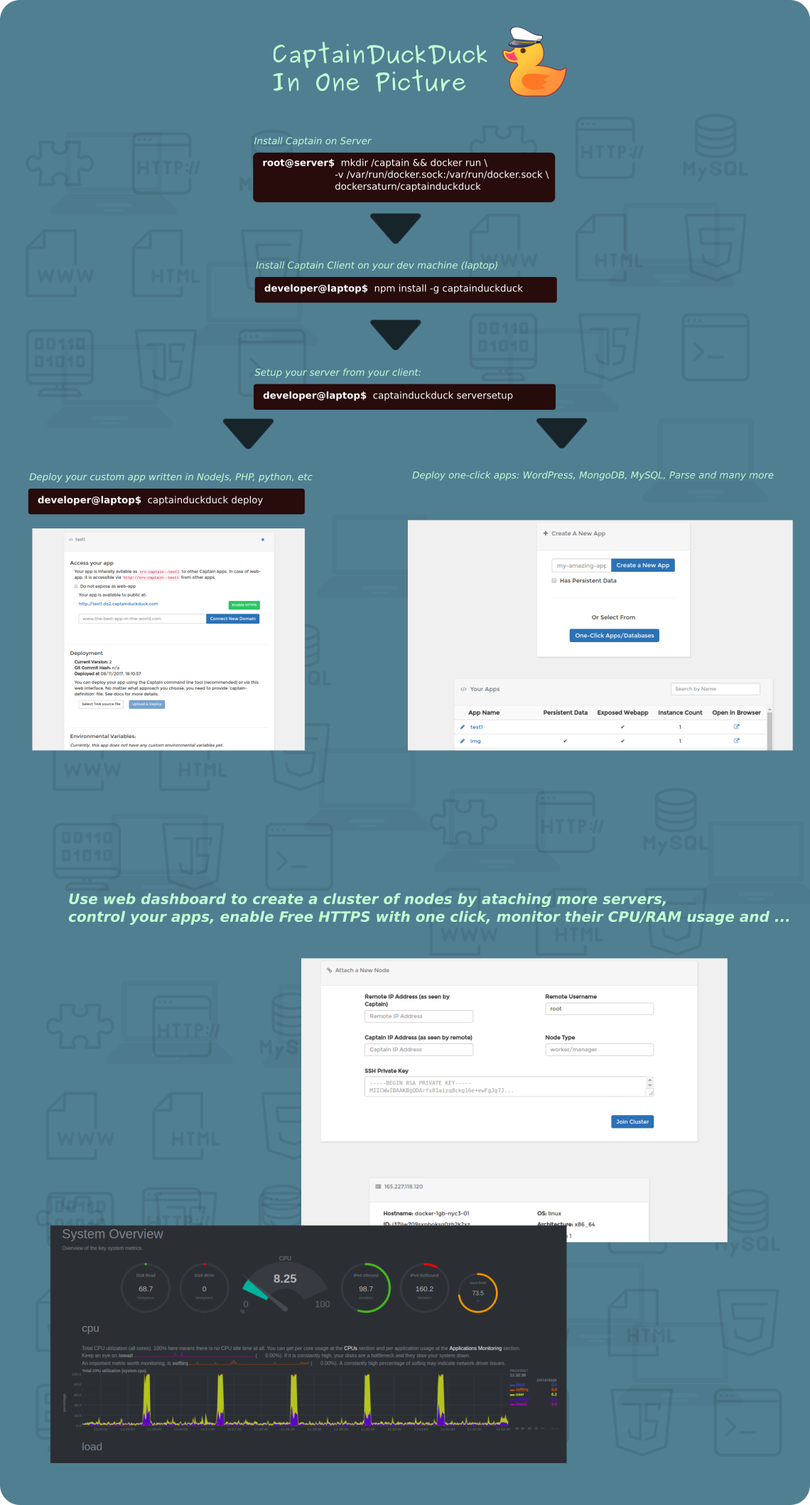
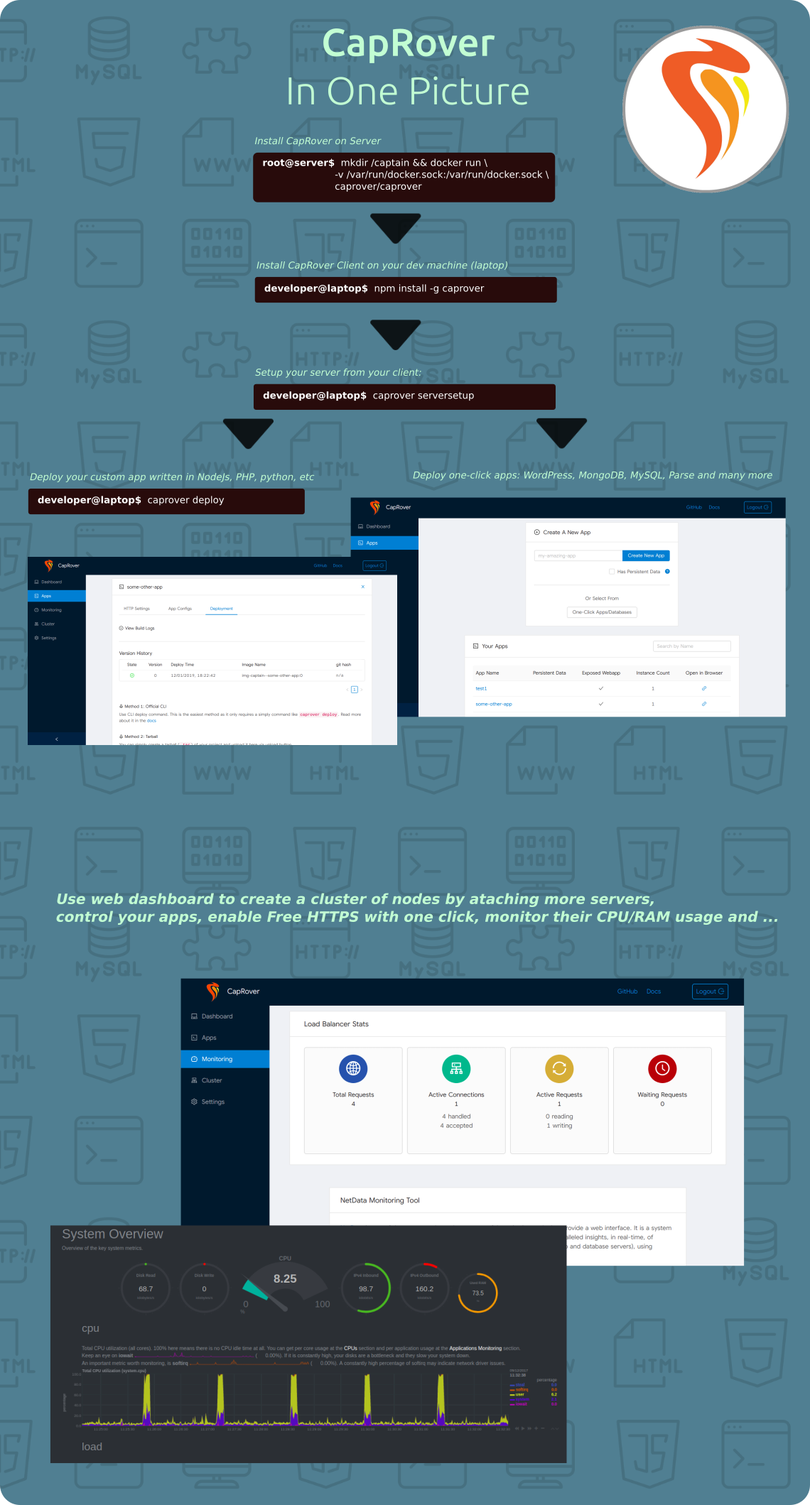
Changed docs to match CapRover

diff --git a/website/pages/en/index.js b/website/pages/en/index.js
@@ -60,6 +60,9 @@ const Logo = props => (
 const ProjectTitle = props => (
     <h2 className="projectTitle">
         {siteConfig.title}
+        <div style={{fontSize:'30%',opacity:0.5}}>
+        <i>Previously Known as CaptainDuckDuck <br/></i>
+        </div>
         <small>{siteConfig.tagline}</small>
     </h2>
 );
@@ -158,7 +161,7 @@ const FeatureCallout = props => (
         style={{textAlign: 'center'}}>
         <h2>What's this?</h2>
         <MarkdownBlock>
-            CapRover is an extremely easy to use app/database deployment & web server manager for your NodeJS,
+            CapRover is an extremely easy to use app/database deployment &amp; web server manager for your NodeJS,
             Python, PHP, Ruby, MySQL, MongoDB, Postgres, WordPress (and etc) applications. It's blazingly fast and very
             robust as
             it uses Docker, nginx, LetsEncrypt and NetData under the hood behind its simple-to-use interface.

diff --git a/docs/captain-definition-file.md b/docs/captain-definition-file.md
@@ -11,20 +11,20 @@ One of the key components of CapRover is the `captain-definition` file that sits
 
 ```
  {
-  "schemaVersion" :1 ,
+  "schemaVersion" :2 ,
   "templateId" :"node/8.7.0"
  }
 ```
 
-`schemaVersion` is always 1. And `templateId` is the piece which defines the what sort of base you need in order to run your app. It is in `LANGUAGE/VERSION` format. LANGUAGE can be one of these: `node`, `php`, `python-django`, `ruby-rack`. See supported versions below for the versions.
+`schemaVersion` is always 2. And `templateId` is the piece which defines the foundation you need in order to run your app. It is in `LANGUAGE/VERSION` format. LANGUAGE can be one of these: `node`, `php`, `python-django`, `ruby-rack`. See supported versions below for the versions.
 
-Note that although the current version of CapRover comes with 4 most popular web app languages: NodeJS, PHP and Python/Django, Ruby/Rack. It gives you the advanced option of defining your own Dockerfile. With a customized Dockerfile, you can deploy any laguage, Go, Java, .NET, you name it! Dockerfiles are quite easy to write. For example, the two captain-definition files below generate <b>the exact same result</b>.
+Note that although the `templateId` can be one of the 4 most popular web app languages: NodeJS, PHP and Python/Django, Ruby/Rack, you are NOT LIMITED to these predefined languages! With CapRover, you have the ability to define your own Dockerfile. With a customized Dockerfile, you can deploy any laguage, Go, Java, .NET, you name it! Dockerfiles are quite easy to write. For example, the two captain-definition files below generate <b>the exact same result</b>.
 
 ### Simple version
 
 ```
  {
-  "schemaVersion" :1 ,
+  "schemaVersion" :2 ,
   "templateId" :"node/8.7.0"
  }
 ```
@@ -34,14 +34,14 @@ Note that although the current version of CapRover comes with 4 most popular web
 
 ```
  {
-  "schemaVersion" :1 ,
+  "schemaVersion" :2 ,
   "dockerfileLines" :[
                         "FROM node:8.7.0-alpine",
                         "RUN mkdir -p /usr/src/app",
                         "WORKDIR /usr/src/app",
-                        "COPY ./src/package.json /usr/src/app/",
+                        "COPY ./package.json /usr/src/app/",
                         "RUN npm install && npm cache clean --force",
-                        "COPY ./src /usr/src/app",
+                        "COPY ./ /usr/src/app",
                         "ENV NODE_ENV production",
                         "ENV PORT 80",
                         "EXPOSE 80",
@@ -51,37 +51,39 @@ Note that although the current version of CapRover comes with 4 most popular web
 ```
 ## Convert Dockerfile to captain-definition:
 
-You can use [this tool](https://githubsaturn.github.io/dockerfile-to-captain/) to convert your `Dockerfile` to `captain-definition` file easily. This [NodeJS script](https://github.com/githubsaturn/captainduckduck/issues/214)  is also for the same purpose, except, it automatically adds `.src/` to the `COPY` lines.
-
-Even if you don't know anything about Docker, you can get an idea what this does. Some examples of advanced methods: [PHP Composer](https://github.com/githubsaturn/captainduckduck/issues/94) and [Meteor](https://github.com/githubsaturn/meteor-captainduckduck/blob/master/captain-definition)
-
-
-**IMPORANT NOTE:** 
-<br/>
-Captain generates a dockerfile and puts it besides a directory named `src` where your source code sits. So if in your normal dockerfile, you have `COPY ./somefile /usr/app`, you will have to change it to `COPY ./src/somefile /usr/app` otherwise deploy would fail.
-
-Using this approach you can deploy Ruby, Java, Scala, literally everything! If you need more details on dockerfile, please see [Dockerfile Help](https://docs.docker.com/engine/reference/builder) and [Best Practices](https://docs.docker.com/engine/userguide/eng-image/dockerfile_best-practices).
-
-
-## Supported versions for simple version:
-NOTE: Versions get pulled from official repositories at runtime, therefore you do not need to update your Captain in order to use a new version of NodeJS. For example, see here: https://hub.docker.com/_/node/
+If you already have a Dockerfile a Dockerfile for your repo, you can reference it in captain-definition file:
 
 ```
+ {
+  "schemaVersion" :2 ,
+  "dockerfilePath" :"./myDockerFile"
+ }
+```
+
+Dockerfiles are so simple and easy to read. Even if you don't know anything about Docker, you can get an idea what this does. Some examples of advanced methods: [PHP Composer](https://github.com/githubsaturn/captainduckduck/issues/94) and [Meteor](https://github.com/githubsaturn/meteor-captainduckduck/blob/master/captain-definition)
+
+Using this approach (pure Dockerfile) you can deploy Ruby, Java, Scala, literally anything! If you need more details on dockerfile, please see [Dockerfile Help](https://docs.docker.com/engine/reference/builder) and [Best Practices](https://docs.docker.com/engine/userguide/eng-image/dockerfile_best-practices).
+
+
+## Sample versions for templateId:
+NOTE: Versions get pulled from official repositories at runtime, therefore you do not need to update your Captain in order to use a new version of NodeJS. For example, see here: https://hub.docker.com/_/node/
+
+```bash
 node/
 carbon, 8, 8.9, 8.9.4, boron, 6, 6.12, 6.12.3, 9, 9.3, 9.3.0, 8.9.3, 9.2, 9.2.1, argon, 4, 4.8, 4.8.7, 6.12.2, 8.9.2, 6.12.1, 4.8.6, 6.12.0, 8.9.1, 9.2.0, 9.1, 9.1.0, 8.9.0, 9.0, 9.0.0, 4.8.5, 6.11, 6.11.5, 8.8, 8.8.1, 8.8.0, 8.7, 8.7.0, 6.11.4, 8.6, 8.6.0, 8.5, 8.5.0, 4.8.4, 6.11.3, 6.11.2, 7, 7.10, 7.10.1, 8.4, 8.4.0, 8.3, 8.3.0, 8.2, 8.2.1, 6.11.1, 8.2.0, 8.1, 8.1.4, 4.8.3, 6.11.0, 8.1.3, 8.1.2, 8.1.1, 8.1.0, 8.0, 8.0.0, 6.10, 6.10.3, 7.10.0, 4.8.2, 6.10.2, 7.9, 7.9.0, 7.8, 7.8.0, 4.8.1, 6.10.1, 7.7, 7.7.4, 4.8.0, 6.10.0, 7.7.3, 7.7.2, 7.7.1, 7.7.0, 7.6, 7.6.0, 4.7, 4.7.3, 6.9, 6.9.5, 7.5, 7.5.0, 4.7.2, 6.9.4, 7.4, 7.4.0, 4.7.1, 6.9.3, 7.3, 7.3.0, 6.9.2, 4.7.0, 7.2.1, 7.2, 4.6, 4.6.2, 7.2.0, 6.9.1, 7.1, 7.1.0
 ```
 
-```
+```bash
 php/
 7, 7.2, 7.2.1, 7.0, 7.0.26, 7.1, 7.1.12, 5, 5.6, 5.6.32, 7.2.0, rc, 7.2-rc, 7.2.0RC6, 7.0.25, 7.1.11, 7.2.0RC5, 7.2.0RC4, 5.6.31, 7.0.24, 7.1.10, 7.2.0RC3, 7.1.9, 7.0.23, 7.2.0RC2, 7.2.0RC1, 7.0.22, 7.1.8, 7.2.0beta3, 7.2.0beta2, 7.1.7, 7.2.0beta1, 7.0.21, 7.2.0alpha3, 5.6.30, 7.0.20, 7.1.6, 7.1.5, 7.0.19, 7.0.18, 7.1.4, 7.0.17, 7.1.3, 7.0.16, 7.1.2, 7.1.1, 7.0.15, 5.6.29, 7.0.14, 7.1.0, 5.6.28, 7.0.13, 7.1-rc, 7.1.0RC6, 7.1.0RC5, 7.0.12, 5.6.27, 7.1.0RC4, 7.1.0RC3, 5.6.26, 7.0.11, 7.1.0RC2, 5.6.25, 7.0.10, 7.1.0RC1, 5.6.24, 7.0.9, 5.5.38, 5.5, 5.5.37, 5.6.23, 7.0.8, 5.5.36, 5.6.22, 7.0.7, 7.0.6, 5.6.21, 5.5.35, 7.0.5, 5.6.20, 5.5.34, 7.0.4, 5.6.19, 5.5.33, 7.0.3, 5.6.18, 5.5.32, 7.0.2, 5.6.17, 5.5.31, 7.0.1, 5.6.16, 5.5.30, 7.0.0, 5.4, 5.4.45, 7.0.0RC8, 5.6.15, 7.0.0RC7, 7.0.0RC6, 7.0.0RC5, 5.6.14, 7.0.0RC4, 7.0.0RC3, 5.6.13, 5.5.29, 7.0.0RC2, 7.0.0RC1, 7.0.0beta3, 5.6.12, 5.5.28, 5.4.44, 7.0.0beta2, 5.6.11, 5.5.27, 5.4.43, 7.0.0beta1, 5.5.21, 5.5.19, 5.5.16, 5.4.40, 5.4.41, 5.4.39, 5.5.17, 5.6.3, 5.6.0, 5.6.8, 5.6.4, 5.4.42, 5.5.20, 5.4.38, 5.5.22, 5.6.5, 5.6.2, 5.4.35, 5.4.36, 5.4.33, 5.3.29, 5.3, 5.5.26, 5.5.18, 5.4.32, 5.4.37, 5.6.1, 5.6.6, 5.6.9, 5.6.10, 5.4.34, 5.6.7, 5.5.24, 5.5.23, 5.5.25
 ```
 
-```
+```bash
 python-django/
 2, 2.7, 2.7.14, 3, 3.6, 3.6.4, 3.6.3, rc, 3.7-rc, 3.7.0a3, 3.7.0a2, 3.7.0a1, 2.7.13, 3.6.2, 3.6-rc, 3.6.2rc2, 3.6.1, 3.6.2rc1
 ```
 
-```
+```bash
 ruby-rack/
 2.4, 2.4.3, 2, 2.5, 2.5.0, rc, 2.5-rc, 2.5.0-rc1, 2.4.2, 2.5.0-preview1
 ```

diff --git a/docs/app-configuration.md b/docs/app-configuration.md
@@ -15,9 +15,17 @@ By default, any webapp that you deploy gets a Captain domain assigned to it in t
 
 One of the most basic configuration that you can set for your app is environmental variables. These variables are usually used to pass in data that does not live in the code. Examples, include API key for a 3rd party service, database connection URI and etc. 
 
+## Port Mapping
+
+CapRover allows you to map ports from a container to the host. You should use this feature if you want a specific port of your apps/containers to be publicly accessible. The most common use case is when you want to **connect to a database container from your local machine**.
+
+Note that even if you don't set any port mapping, all ports are accessible from other containers on the same Captain cluster. Therefore, you should only use this option if you want the port to be publicly accessible. Make sure to have the port open, see [firewall settings](firewall.md).
+
+For example, if you want your NodeJS app to access your MongoDB database, and you do not need to access your MongoDB from your laptop, you don't need Port Mapping. Instead, you can use the fully qualified name for the MongoDB instance which is `srv-captain--mongodb-app-name` (replace `mongodb-app-name` with the app name you used). 
+
 ## Persistent or Not
 
-When you want to create an app you have the option of creating the app with "Persistent Data" or not. 
+When you want to create an app you have the option of creating the app with "Persistent Data" or not. By default, you should always prefer no persistence. However, they are cases where you need to create an app with persistence, see below.
 
 ### Persistent Apps: 
 These are the apps that have some data that need to survive restart, crash, container update and etc. Because these apps store data on disk, once they get created they get locked down on a specific server (if you have multiple servers). You can still change the constraint so that they will be moved to another machine, but if they will lose anything that might have been stored on the current host. Examples that use persistent apps include:
@@ -27,7 +35,7 @@ These are the apps that have some data that need to survive restart, crash, cont
 
 The main limitation of apps with Persistent Data is that they cannot be run as multiple instances. That's because they would access the same storage area and the data can be corrupted if multiple apps try to write on the same path.
 
-Note that NOT ALL DIRECTORIES will be treated as persistent directories. After you created the app as an app with persistent data, you'll have to define directories that you want to be persistent in the app details page on web dashboard. You can let CapRover manage the stored directories for you, in that case, they will be placed in `/var/lib/docker/volumes/YOUR_VOLUME_NAME/_data`. Alternatively, you can set specific path on your host machine to be mapped to a directory in your container. For example, you can map `/var/usr` on your server to `/my-host-usr-something` in your container. This way you can save a file in your container at `/my-host-usr-something/myfile.txt` and the file will be available on your server at `/var/usr/myfile.txt`. If you choose to use this option (specifying a specific host path), you'll have to make sure that the path already exists in your host before assigning it.
+Note that even for Persistent Apps, NOT ALL DIRECTORIES will be treated as persistent directories. After you created the app as an app with persistent data, you'll have to define directories that you want to be persistent in the app details page on web dashboard. You can let CapRover manage the stored directories for you, in that case, they will be placed in `/var/lib/docker/volumes/YOUR_VOLUME_NAME/_data`. Alternatively, you can set specific path on your host machine to be mapped to a directory in your container. For example, you can map `/var/usr` on your server to `/my-host-usr-something` in your container. This way you can save a file in your container at `/my-host-usr-something/myfile.txt` and the file will be available on your server at `/var/usr/myfile.txt`. If you choose to use this option (specifying a specific host path), you'll have to make sure that the path already exists in your host before assigning it.
 
 ### Removing Persistent Apps: 
 Persistent directories need to be manually removed after you remove an app from Captain dashboard. This is to avoid accidential delete of important data. To delete persisten directories, depending on the type of persistent directories, steps are different:
@@ -45,9 +53,3 @@ Also, multiple instances of non-persistent apps can be running at the same time 
 - A image processor which takes a photo and runs some logic to figure out what is in the picture. This is a good example of an app that can benefit from getting spawned as multiple instances as it's CPU heavy.
 - A TODO web app. Note that this app will definitely uses some sort of database which is persistent. But the webapp itself does not store anything directly on disk.
 - An image upload app that uses Amazon S3 as the storage engine rather than storing images locally on disk
-
-## Port Mapping
-
-CapRover allows you to map ports from a container to the host. You should use this feature if you want a specific port of your apps/containers to be publicly accessible. The most common use case is when you want to connect to a database container from your local machine. Note that even if you don't set any port mapping, all ports are accessible from other containers on the same Captain cluster. Therefore, you should only use this option if you want the port to be publicly accessible. Make sure to have the port open, see [firewall settings](firewall.md).
-
-Note that you only need port mapping if your database is being accessed from an external machine. For example, if you want your NodeJS app to access your MongoDB database, and you do not need to access your MongoDB from your laptop, you don't need Port Mapping. Instead, you can use the fully qualified name for the MongoDB instance which is `srv-captain--mongodb-app-name` (replace `mongodb-app-name` with the app name you used). 

diff --git a/docs/get-started.md b/docs/get-started.md
@@ -20,9 +20,9 @@ _**CPU Architecture**:_ Although CapRover source code is compatible with any CPU
 
 _**Recommended Stack**:_ CapRover is tested on Ubuntu 16.04 and Docker 17.06. If you're using CapRover on a different OS, you might want to look at [Docker Docs](https://docs.docker.com/engine/userguide/storagedriver/selectadriver/#supported-storage-drivers-per-linux-distribution).
 
-_**Minimum RAM**:_ Note that the build process sometimes consumes too much RAM, and 512MB RAM might not be enough (see [this issue](https://github.com/githubsaturn/captainduckduck/issues/28)). Most providers offer a minimum of 1GB RAM on $5 instance including DigitalOcean, Vultr, Scaleway, Linode, SSD Nodes and etc.
+_**Minimum RAM**:_ Note that the build process sometimes consumes too much RAM, and 512MB RAM might not be enough (see [this issue](https://github.com/caprover/caprover/issues/28)). Most providers offer a minimum of 1GB RAM on $5 instance including DigitalOcean, Vultr, Scaleway, Linode, SSD Nodes and etc.
 
-You can install Captain on your laptop which is behind NAT (your router) for testing purposes, but it requires some special setup, like port forwarding. 
+You can install Captain on your laptop which is behind NAT (your router). But if you want to enable HTTPS and/or access the apps from outside of your private network, it requires some special setup, like port forwarding. 
 
 #### C) Install Docker on Server (at least, version 17.06.x)
 
@@ -49,7 +49,7 @@ Just run the following line, sit back and enjoy!
  mkdir /captain && docker run -p 80:80 -p 443:443 -p 3000:3000 -v /var/run/docker.sock:/var/run/docker.sock caprover/caprover
 ```
 
-You will see a bunch of outputs on your screen. Once the Captain is initialized, you can visit `http://[IP_OF_YOUR_SERVER]:3000` in your browser and login to Captain using the default password `captain42`. You can change your password later. Do not make any changes in the dashboard. We'll use the command line tool to setup the server.
+You will see a bunch of outputs on your screen. Once the Captain is initialized, you can visit `http://[IP_OF_YOUR_SERVER]:3000` in your browser and login to Captain using the default password `captain42`. You can change your password later. **Do not make any changes in the dashboard**. We'll use the command line tool to setup the server.
 
 ## Step 2: Connect Root Domain
 
@@ -80,7 +80,7 @@ Follow the steps and login to your captain instance. When prompted to enter the 
 
 ## Step 4: Deploy the Test App
 
-Go to the Captain in your browser, from the left menu select Apps and create a new app. Name it `my-first-app`. Then, download any of the test apps <a href="https://github.com/githubsaturn/captainduckduck/tree/master/captain-sample-apps">here</a>, unzip the content. and while inside the directory of the test app, run:
+Go to the Captain in your browser, from the left menu select Apps and create a new app. Name it `my-first-app`. Then, download any of the test apps <a href="https://github.com/caprover/caprover/tree/master/captain-sample-apps">here</a>, unzip the content. and while inside the directory of the test app, run:
 
 ```bash
 /home/Desktop/captain-examples/captain-node$  caprover deploy
@@ -90,6 +90,6 @@ CONGRATS! Your app is live!!
 
 You can connect multiple custom domains (like `www.my-app.com`) to a single app and enable HTTPS and do much more in the app's settings page.
 
-Note that when you run `caprover deploy`, the current git commit will be sent over to your server. **IMPORTANT:** uncommited files and files in `gitignore` WILL NOT get pushed to the server.
+Note that when you run `caprover deploy`, the current git commit will be sent over to your server. **IMPORTANT:** uncommited files and files in `gitignore` WILL NOT be sent to the server.
 
 You can visit Captain in the browser and set custom parameters for your app such as environment variables, and do much more! For more details regarding deployment, please see CLI docs. For details on `captain-definition` file, see [Captain Definition File](captain-definition-file.md).

diff --git a/docs/run-locally.md b/docs/run-locally.md
@@ -8,19 +8,18 @@ sidebar_label: Run Locally
 Note that this is an advanced process. Some of the concepts used in this section are not easy for the beginners. In order to run CapRover on your local machine (just for testing and development) you need:
 
 - Docker installed on your machine.
-- A local DNS server on your machine. You need to point `*.captain.x` to `127.0.0.1` or `192.168.1.2` (your local ip). **NOTE** that `etc/hosts` won't be enough as Captain needs a wildcard entry and `etc/hosts` does not allow wildcards, i.e. `*.something`.
-  - On ubuntu 16, `dnsmasq` (a local DNS server) is built-in. So, it's as simple of editing this file: `/etc/NetworkManager/dnsmasq.d/dnsmasq-localhost.conf` (create if does not exist) And add this line to it: `address=/captain.x/192.168.1.2` where `192.168.1.2` is your local IP address. To make sure you have `dnsmasq`, you can run `which dnsmasq` on your terminal, if it's available, path of it will be printed on the terminal, otherwise, there won't be anything printed on your terminal.
+- A local DNS server on your machine. You need to point `*.captain.local` to `127.0.0.1` or `192.168.1.2` (your local ip). **NOTE** that `etc/hosts` won't be enough as Captain needs a wildcard entry and `etc/hosts` does not allow wildcards, i.e. `*.something`. On ubuntu 16, `dnsmasq` (a local DNS server) is built-in. So, it's as simple of editing this file: `/etc/NetworkManager/dnsmasq.d/dnsmasq-localhost.conf` (create if does not exist) And add this line to it: `address=/captain.local/192.168.1.2` where `192.168.1.2` is your local IP address. To make sure you have `dnsmasq`, you can run `which dnsmasq` on your terminal, if it's available, path of it will be printed on the terminal, otherwise, there won't be anything printed on your terminal.
   
 Note: For Ubuntu 18, read https://askubuntu.com/questions/1029882/how-can-i-set-up-local-wildcard-127-0-0-1-domain-resolution-on-18-04
 
 To verify you have both prerequisites mentioned above:
 - Run `docker version` and make sure your version is at least the version mentioned in the [docs](get-started.md#c-install-docker-on-server-at-least-version-1706x) 
-- Run `nslookup askjdfklasjflk.captain.x` and make sure it resolves to `127.0.0.1` or your local ip (something like `192.168.1.2`):
+- Run `nslookup randomstring123.captain.local` and make sure it resolves to `127.0.0.1` or your local ip (something like `192.168.1.2`):
 ```
 Server:		127.0.1.1
 Address:	127.0.1.1#53
 
-Name:	askjdfklasjflk.captain.x
+Name:	randomstring123.captain.local
 Address: 192.168.1.2
 ```
 
@@ -28,9 +27,9 @@ Address: 192.168.1.2
 Once you confirmed that you have the prereqs ready, you can go ahead and install Captain on your machine, similar to what you do on server. Make sure you run as a user with sufficient permission, i.e. `sudo` on linux based systems. Just follow the steps outlined here: [Captain Installation](get-started#step-1-captain-installation)
 
 **EXCEPT** 
-Do not run `caprover serversetup`. Instead, go to http://localhost:3000 and manually set root domain to `captain.x`. DO NOT enable/force HTTPS. Obviously, you cannot enable HTTPS on your local domain (captain.x).
+Do not run `caprover serversetup`. Instead, go to http://captain.captain.local:3000 and manually set root domain to `captain.local`. DO NOT enable/force HTTPS. Obviously, you cannot enable HTTPS on your local domain (captain.local).
 
-Once you set your root domain as `captain.x`, use `caprover login` and enter `captain.captain.x` as your captain URL and captain42 as your password. 
+Once you set your root domain as `captain.local`, use `caprover login` and enter `captain.captain.local` as your captain URL and captain42 as your password. 
 
 
 **NON-LINUX USERS**

diff --git a/docs/troubleshooting.md b/docs/troubleshooting.md
@@ -11,7 +11,7 @@ This section covers most frequent issues that uses may encounter.
 ## Cannot connect <ip_server>:3000?
 There is a whole set of reasons for this.
 
-First you need to make sure that CapRover is running on your server. To check this, ssh to your server and run `docker service ps captain-captain --no-trunc`. You might see Captain is getting restarted constantly due to an error. Fix the issue and retry. For example, see [here](https://github.com/githubsaturn/captainduckduck/issues/14#issuecomment-345447689)
+First you need to make sure that CapRover is running on your server. To check this, ssh to your server and run `docker service ps captain-captain --no-trunc`. You might see Captain is getting restarted constantly due to an error. Fix the issue and retry. For example, see [here](https://github.com/caprover/caprover/issues/14#issuecomment-345447689)
 
 Linode for example is notorious for [this kind of problem](https://github.com/docker/machine/issues/2753#issuecomment-171822791) and [this](https://github.com/docker/machine/issues/2753#issuecomment-188353704)
 
@@ -20,15 +20,15 @@ If you don't see any errors when your ran `docker service ps captain-captain --n
 ## Successful Deploy but 502 bad gateway error!
 This applies to you if:
 - You have been able to setup your server and access it via `captain.rootdomain.example.com`.
-- You have been able to deploy one of the samples apps (see [here](https://github.com/githubsaturn/captainduckduck/tree/master/captain-sample-apps)) successfully and it worked.
+- You have been able to deploy one of the samples apps (see [here](https://github.com/caprover/caprover/tree/master/captain-sample-apps)) successfully and it worked.
 - You tried to deploy your own application and it deployed successfully, but when you try to access it via `yourappname.root.example.com` you get a 502 error.
 
 If all above points are correct, this is how to troubleshoot:
 - SSH to your server and view your application logs. Make sure it hasn't crashed and it's running. To view logs, please see the section at the end of this page "[How to view my application's log](#how-to-view-my-applications-log)"
-- If you application logs show that your application is running, the most common case is that your application is binding to a custom port, not port 80. See here for [the fix](https://github.com/githubsaturn/captainduckduck/issues/130) .
+- If you application logs show that your application is running, the most common case is that your application is binding to a custom port, not port 80. For example, CouchDB runs at port 5984. In this case, go to app's settings on CapRover, go to HTTP Settings, then select 5984 as the "Container Port".
 
-## Want to customize a captain dashboard URL (or any other constants)
-You can customize any constant defined in [CaptainConstants](https://github.com/githubsaturn/captainduckduck/blob/master/app-backend/src/utils/CaptainConstants.js) by adding a JSON file to `/captain/constants.conf`. For example, to change `defaultMaxLogSize`, the content of `/captain/constants.conf` will be:
+## Customize Config Settings
+You can customize any constant defined in [CaptainConstants](https://github.com/caprover/caprover/blob/master/src/utils/CaptainConstants.ts) by adding a JSON file to `/captain/data/config-override.json`. For example, to change `defaultMaxLogSize`, the content of `/captain/data/config-override.json` will be:
 ```
 {
  "defaultMaxLogSize":"128m"

diff --git a/docs/deployment-methods.md b/docs/deployment-methods.md
@@ -12,17 +12,17 @@ Simply run `caprover deploy` in your git repo and follow the steps. This is the 
  [Get Started - Step 4](get-started.md#step-4-deploy-the-test-app).
 
 ## Deploy via Web Dashboard
-Zip the content of your project into a tarball (`.tar`), go to your Captain web dashboard and upload the tar file. This deployment method is typically used for testing purposes only.
+Convert the content of your project into a tarball (`.tar`), go to your Captain web dashboard and upload the tar file. This deployment method is typically used for testing purposes only.
 
 
-## Deploy using Github, Bitbucket and etc.
-This method is perhaps the most convinient one. This method automatically triggers a build when you push your repo to a specific branch (like `master` or `staging` or etc). To setup this, go to your apps settings and enter the repo information:
+## Automatic Deploy using Github, Bitbucket and etc.
+This method is perhaps the most convenient one. This method automatically triggers a build when you push your repo to a specific branch (like `master` or `staging` or etc). To setup this, go to your apps settings and enter the repo information:
 - github/bitbucket username(email address): This is username that will be used when Captain downloads the repo.
 - github/bitbucket password: You can enter any non-empty text, like `123456`, for public projects.
 - repo: This is the main HTTPS address of repo, in case of github, it is in `github.com/someone/something` format. Make sure it does NOT include `https://` prefix and `.git` suffix.
 - branch: The branch you want to be tracked, for example `master` or `production`...
 
-After you enter this information, save your configuration. And go to your apps page again. Now, you'll see a new field call webhook. Simply copy this webhook to your github/bitbucket repo. Captain listens to `POST` requests on this link and triggers a build.
+After you enter this information, save your configuration. And go to your apps page again. Now, you'll see a new field call webhook. Simply copy this webhook to your github/bitbucket repo webhooks (see below). Captain listens to `POST` requests on this link and triggers a build.
 
 On Github, webhooks can be added here:
 - Project > Settings > Add Webhook > URL: Captain Webhook from your apps page, Content Type: `application/json`, 
@@ -30,8 +30,3 @@ Secret: <Leave empty>, Just the `push` event.
 
 On Bitbucket, webhooks can be added here:
 - Project > Settings > Webhooks > Add Webhook > Title: Captain Server, URL: Captain Webhook from your apps page.
-
-
-### Note: git submodules
-Sometimes git repositories contain git submodules. If these submodules are necessary for your application to be built, you need to know that currently they are being supported by CLI, however, the support for WebHooks will be available starting version 0.8.0.
-

diff --git a/docs/recipe-deploy-create-react-app.md b/docs/recipe-deploy-create-react-app.md
@@ -3,9 +3,8 @@ id: recipe-deploy-create-react-app
 title: Static React App
 sidebar_label: Static React App
 ---
-<br/>
 
-# Deploying as `create-react-app` in a static container
+# Deploying `create-react-app`
 
 Here is a small step-by-step guide to deploy a `create-react-app` as a static site.
 Unlike the regular `caprover deploy` that would deploy source files on a `NodeJS` container then build your app and run a small node server to serve your files, this guide shows how you can build locally and deploy the static bundle in a simple static server container.
@@ -28,14 +27,18 @@ Then create a `captain-definition` at the root of your project:
 
 ```json
 {
-  "schemaVersion": 1,
-  "dockerfileLines": ["FROM socialengine/nginx-spa:latest", "COPY ./src/build /app", "RUN chmod -R 777 /app"]
+  "schemaVersion": 2,
+  "dockerfileLines": [
+    "FROM socialengine/nginx-spa:latest", 
+    "COPY ./build /app", 
+    "RUN chmod -R 777 /app"
+  ]
 }
 ```
 
 This `captain-definition` uses `socialengine/nginx-spa` which is a simple static ngninx server that handle `pushState` (every request is routed to `/index.html` so you can use frontend routing).
 
-**Note**: If your `build` output in a diffent folder than `build` you need to change the `COPY ./src/build /app` into `COPY ./src/[my-output-folder] /app`
+**Note**: If your `build` output in a different folder than `build` you need to change the `COPY ./build /app` into `COPY ./[my-output-folder] /app`
 
 ## Create the `tar` file
 
@@ -45,7 +48,7 @@ Now you need to create a `tar` file, usually you don't have to do this because `
 tar -cvf ./deploy.tar --exclude='*.map' ./captain-definition ./build/*
 ```
 
-**Note**: If your `build` output in a diffent folder than `build` you need to replace `./build/*` with `./[my-output-folder]/*`
+**Note**: If your `build` output in a different folder than `build` you need to replace `./build/*` with `./[my-output-folder]/*`
 
 **Note**: We also exclude `.map` files because these are usually quite big and make the upload longer. If you want `.map` files in production just remove the `--exclude='*.map'`.
 

diff --git a/docs/pre-deploy-script.md b/docs/pre-deploy-script.md
@@ -24,7 +24,7 @@ var preDeployFunction = function (captainAppObj, dockerUpdateObject) {
 
 Note that `captainAppObj`, is the app object as saved in `/captain/config.conf` file, and `dockerUpdateObject` is the service update object that is being passed to Docker to update the service (environmental vars, image version and etc). This object is as per [Docker docs](https://docs.docker.com/engine/api/v1.30/#operation/ServiceUpdate).
 
-Since this script will be executed in CapRover process, you'll get access to all node dependecies that CapRover has, see [CaptainDuckDuck/app-backend/package.json](https://github.com/githubsaturn/captainduckduck/blob/master/app-backend/package.json). For example, the following script injects a UUID mapped to the deployed version to service label with every update:
+Since this script will be executed in CapRover process, you'll get access to all node dependecies that CapRover has, see [CaptainDuckDuck/app-backend/package.json](https://github.com/caprover/caprover/blob/master/package.json). For example, the following script injects a UUID mapped to the deployed version to service label with every update:
 
 ```
 var uuid = require('uuid/v4');
@@ -47,4 +47,4 @@ Note that this pre-deploy script, particularly Docker service update object, is 
 dockerUpdateObject.TaskTemplate.ContainerSpec.Labels[uuid()] = captainAppObj.deployedVersion+ '';
 ```
 
-Removing this causes an error. To see logs, you need to run `docker service logs captain-captain --follow`. Even the error from Docker is not very clear. All in all, this is an advanced feature and is not recommended for beginners and intermiate users.
+Removing this simple hack, will throw an error when deploying apps. To see logs, you need to run `docker service logs captain-captain --follow`. Even the error from Docker is not very clear. All in all, this is an advanced feature and is not recommended for beginners and intermiate users.

diff --git a/docs/disk-cleanup.md b/docs/disk-cleanup.md
@@ -15,7 +15,7 @@ docker container prune --force
 docker image prune --all
 ```
 
-Important Note: Use this approach only if you have a Docker registry set up (local or remote). This is due to an existing bug in Docker, see [here](https://github.com/githubsaturn/captainduckduck/issues/180) for more details on the problem and also see the related [Docker Issue](https://github.com/moby/moby/issues/36295)
+Important Note: Use this approach only if you have a Docker registry set up (local or remote). This is due to an existing bug in Docker, see [here](https://github.com/caprover/caprover/issues/180) for more details on the problem and also see the related [Docker Issue](https://github.com/moby/moby/issues/36295)
 
 ## Docker Volumes
 Volumes, aka "Persistent Directories". When you create an app with persistent data, like a database, you will assign it a persistent directory. When you change the persistent directory, or when you delete your app, you don't need the volumes anymore. Cleaning up orphaned volumes are tricky. If you have a useful volume for an app that is "currently" crashing and not-running, that volume is considered as "orphaned" by Docker :( So, to safely clean up orphaned volumes, first, check to see if all your services are running by:

diff --git a/docs/cli-commands.md b/docs/cli-commands.md
@@ -45,13 +45,13 @@ Captain definition file for a nodejs application is:
 
 ```
  {
-  "schemaVersion" :1 ,
+  "schemaVersion" :2 ,
   "templateId" :"node/8.7.0"
  }
 ```
 
 
-See https://CapRover.com/docs/captain-definition-file.html for more details on Captain Definition file.
+See  [Captain Definition File](captain-definition-file.md) for more details on Captain Definition file.
 
 After making sure that this file exists, run the following command and answers questions:
 
@@ -61,9 +61,9 @@ caprover deploy
 
 You will then see your application being uploaded, after that, your application getting built. Note that the build process takes multiple minutes, please be patient!
 
-You can also deploy directly with one command:
+Alternatively, you can use the stateless mode and supply the CapRover server information inline:
 ```bash
-caprover deploy -s -h https://captain.root.domain.com -a app-name -p password -b branchName
+caprover deploy -h https://captain.root.domain.com -p password -b branchName -a app-name 
 ```
 
 This can be useful if you want to integrate CI/CD pipeline.

diff --git a/docs/app-scaling-and-cluster.md b/docs/app-scaling-and-cluster.md
@@ -34,9 +34,9 @@ Note: for cluster mode you will need to setup a Docker Registry.
 
 ### Setup Docker Registry:
 
-Docker Registry is simply the repository that different nodes in a cluster can access to download your app and run it. If you are not running your instance on a cluster, there is pretty much no benefit to setting up Docker Registry.
+Docker Registry is simply the repository that different nodes in a cluster can access to download your app and run it. If only have one server (no cluster), there is pretty much no benefit to setting up Docker Registry.
 
-On the other hand, Docker Registry is necessary for clusters. To setup Registry, simply go to your Captain web dashboard and follow the instructions. You will be given two options:
+On the other hand, Docker Registry needs to be set up and ready for clusters. To setup Registry, simply go to your Captain web dashboard, select Cluster from the menu, and follow the instructions. You will be given two options:
 - Docker Registry managed by Captain.
 - Docker Registry managed by a 3rd party provider.
 
